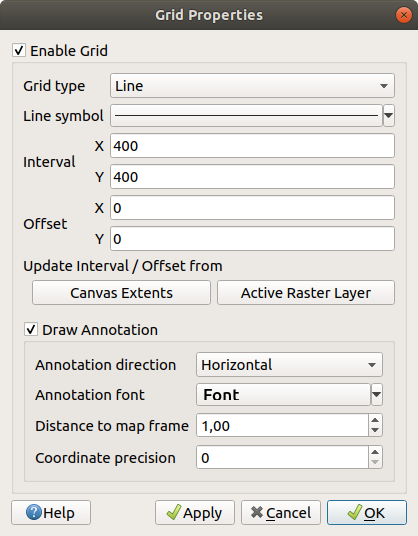
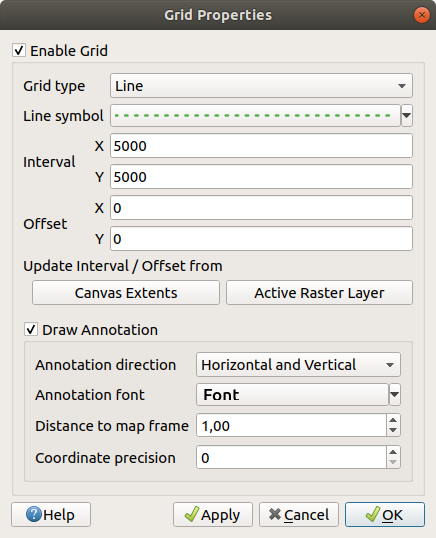
Describe grid decoration features

diff --git a/source/docs/user_manual/introduction/general_tools.rst b/source/docs/user_manual/introduction/general_tools.rst
@@ -839,7 +839,7 @@ Grid
 |transformed| :sup:`Grid` allows you to add a coordinate grid and coordinate
 annotations to the map canvas.
 
-#. Select :menuselection:`View --> Decorations --> Grid` to open the dialog.
+#. Select :menuselection:`View --> Decorations --> Grid...` to open the dialog.
 
    .. _figure_decorations_grid:
 
@@ -849,10 +849,41 @@ annotations to the map canvas.
       The Grid Dialog
 
 #. Tick |checkbox| :guilabel:`Enable grid` and set grid
-   definitions according to the layers loaded in the map canvas.
-#. Tick |checkbox| :guilabel:`Draw annotations` and set
-   annotation definitions according to the layers loaded in the map canvas.
-#. Click :guilabel:`Apply` to verify that it looks as expected or :guilabel:`OK` if you're satisfied.
+   definitions according to the layers loaded in the map canvas:
+   
+   * The :guilabel:`Grid type`: it can be :guilabel:`Line` or :guilabel:`Marker`
+   * The associated :ref:`Line symbol <vector_line_symbols>` or :ref:`marker
+     symbol <vector_marker_symbols>` used to represent the grid marks
+   * The :guilabel:`Interval X` and :guilabel:`Interval Y` between the grid
+     marks, in the map units
+   * An :guilabel:`Offset X` and :guilabel:`Offset Y` distance of the grid
+     marks from the bottom left corner of the map canvas, in map units
+   * The interval and offset parameters can be set based on the 
+     :guilabel:`Canvas Extents` or using the extent of the :guilabel:`Active
+     Raster Layer`
+#. Tick |checkbox| :guilabel:`Draw annotations` to display the coordinates of
+   the grid marks and set:
+
+   * The :guilabel:`Annotation direction`, ie how the labels would be placed
+     regarding their grid line. It can be:
+   
+     * :guilabel:`Horizontal` or :guilabel:`Vertical` for all the labels
+     * :guilabel:`Horizontal and Vertical`, ie each label is parallel to the
+       grid mark it refers to
+     * :guilabel:`Boundary direction`, ie each label follows the canvas
+       boundary, and is perpendicular to the grid mark it refers to
+   * The :guilabel:`Annotation font` using the OS :ref:`font selector widget
+     <font_selector>`
+   * The :guilabel:`Distance to map frame`, margin between annotations and map
+     canvas limits. Convenient when exporting the map canvas eg to image or
+     PDF format and avoid annotations to be on the "paper" limits.
+
+     .. Todo: Add a reference link to export map canvas to image or pdf section when done
+
+   * The :guilabel:`Coordinate precision`
+
+#. Click :guilabel:`Apply` to verify that it looks as expected or :guilabel:`OK`
+   if you're satisfied.
 
 .. index:: Copyright
 .. _copyright_decoration:
